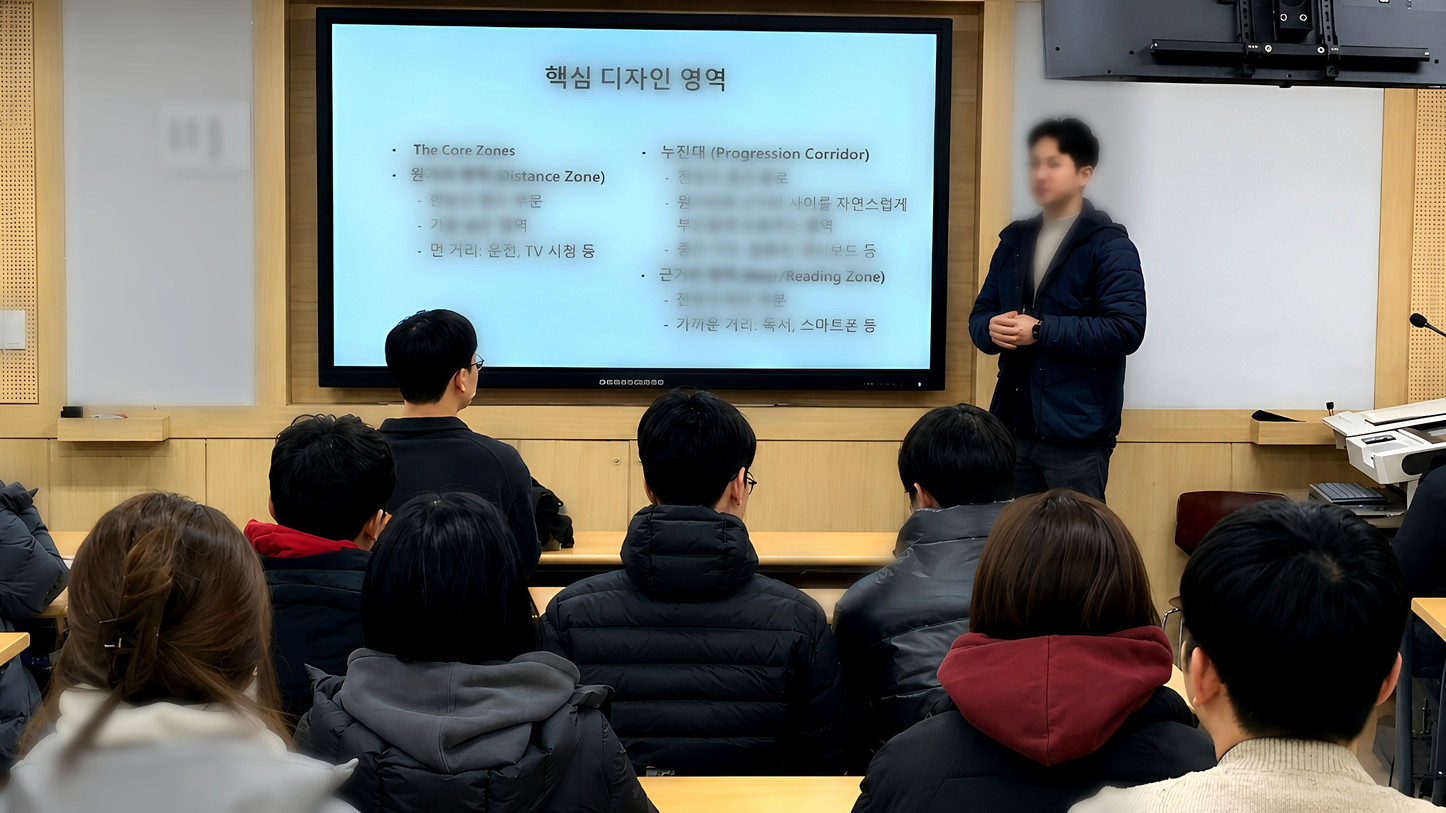
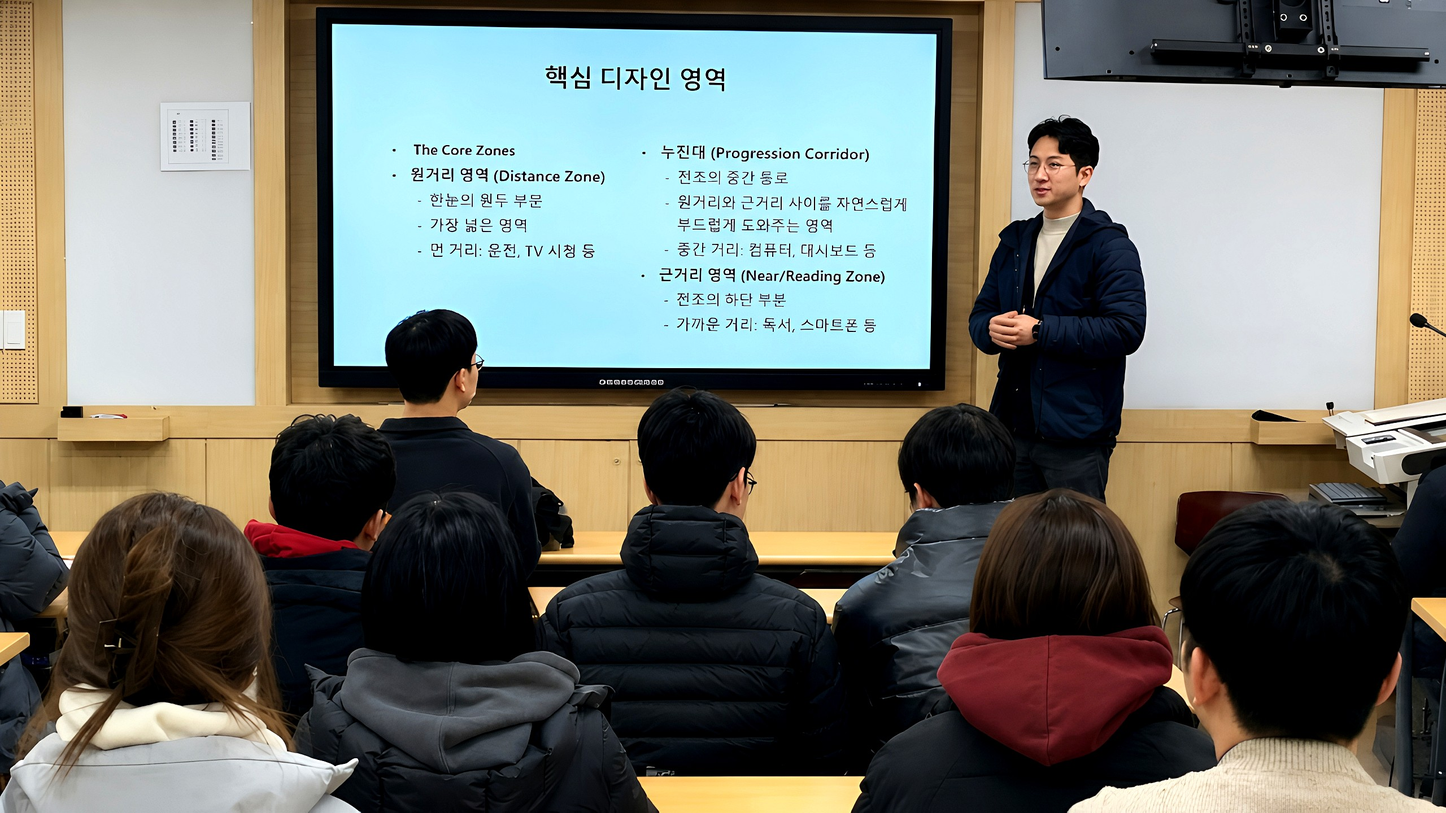
feat(hero): 원본 사진 2장 AI 4x 업스케일 + 블러 없는 재처리, 역동적 kenburns v5 재설계
- hero-bg.jpg / hero-bg2.jpg: 사용자 제공 원본 2장 AI 4x 업스케일 (4096×2304)
  → Lanczos 리사이즈(2560×1440) + 약한 언샤프(σ=0.8) + 색보정만 적용
  → 얼굴 블러/스무딩 일절 없음 (이전 v3/v4 얼굴 뭉개짐 문제 완전 해결)
- index.html Hero CSS 완전 재작성 (kenburns v5):
  · 높이 88vh (기존 82vh → 확대)
  · kenburns scale 1.14, X/Y 동시 pan으로 역동성 강화
  · hero-slide crossfade 타이밍 최적화 (24s 루프)
  · 이미지 필터 brightness(0.84), 오버레이 그라디언트 조정
  · object-position 72%/76% 22%/20% (인물 구도 최적화)
  · 이미지 캐시 무효화 ?v=4

diff --git a/index.html b/index.html
@@ -40,37 +40,36 @@
   50%      { opacity: 1;  transform: scale(1.012); }
 }
 
-/* ── 슬라이드쇼 크로스페이드 (12s on / 2s fade / 2s off × 2장 = 24s 루프) ── */
-/* 슬라이드 1: 0% 보임 → 87.5% 보임 → 91.7% 페이드 → 100% 숨김 */
+/* ── 슬라이드쇼 크로스페이드 + kenburns (24s 루프) ── */
+/* 슬라이드1: 0~50% on, 50~58% 페이드아웃 */
 @keyframes hero-slide-1 {
-  0%       { opacity: 1; }
-  79%      { opacity: 1; }
-  91.7%    { opacity: 0; }
-  100%     { opacity: 0; }
+  0%,45%  { opacity: 1; }
+  57%     { opacity: 0; }
+  96%,100%{ opacity: 0; }
 }
-/* 슬라이드 2: 0% 숨김 → 50% 등장 시작 → 54.2% 보임 → 91.7% 보임 → 100% 페이드 끝 */
+/* 슬라이드2: 0~47% off, 50~96% on */
 @keyframes hero-slide-2 {
-  0%       { opacity: 0; }
-  50%      { opacity: 0; }
-  62.5%    { opacity: 1; }
-  100%     { opacity: 1; }
+  0%,47%  { opacity: 0; }
+  52%     { opacity: 1; }
+  96%,100%{ opacity: 1; }
 }
-/* 슬라이드별 켄번스 패럴랙스 — 역동적 줌+좌우 패닝 (Y 고정으로 얼굴 보호) */
+/* kenburns-1: 넓게서 좁게 (청중 전경용 — 배경에서 강의자 쪽으로) */
 @keyframes kenburns-1 {
-  0%   { transform: scale(1.12) translateX(2%)    translateY(0); }
-  100% { transform: scale(1.0)  translateX(-1.5%) translateY(0); }
+  0%   { transform: scale(1.14) translate( 2.5%,  1.2%); }
+  100% { transform: scale(1.0)  translate(-1.5%, -0.5%); }
 }
+/* kenburns-2: 강의자 클로즈업용 — 좌하에서 우상으로 */
 @keyframes kenburns-2 {
-  0%   { transform: scale(1.0)  translateX(-2%)   translateY(0); }
-  100% { transform: scale(1.12) translateX(1.5%)  translateY(0); }
+  0%   { transform: scale(1.0)  translate(-2.5%, 0.8%); }
+  100% { transform: scale(1.14) translate( 2.0%, -0.8%); }
 }
 
 /* ── Hero 전체 컨테이너 ── */
 .hero {
   position: relative;
-  height: 82vh;
-  min-height: 600px;
-  max-height: 860px;
+  height: 88vh;
+  min-height: 620px;
+  max-height: 920px;
   display: flex;
   flex-direction: column;
   padding-top: var(--nav-h);
@@ -93,47 +92,58 @@
 .hero-slide img {
   width: 100%; height: 100%;
   object-fit: cover;
-  filter: brightness(0.88) contrast(1.06) saturate(1.04);
-  will-change: transform, opacity;
+  filter: brightness(0.84) contrast(1.08) saturate(1.06);
+  will-change: transform;
 }
 
-/* 슬라이드 1 — lecture-2 (강의자 우측, 핵심 강의 장면) */
+/* 슬라이드 1: 청중 전경 (넓은 앵글, 먼저 보임) */
 .hero-slide:nth-child(1) {
+  opacity: 1;
   animation: hero-slide-1 24s ease-in-out infinite;
 }
 .hero-slide:nth-child(1) img {
-  object-position: 68% 20%;
+  object-position: 72% 22%;
   animation: kenburns-1 24s ease-in-out infinite;
 }
 
-/* 슬라이드 2 — lecture-1 (청중+강의자 넓은 앵글) */
+/* 슬라이드 2: 강의자 제스처 클로즈업 */
 .hero-slide:nth-child(2) {
+  opacity: 0;
   animation: hero-slide-2 24s ease-in-out infinite;
 }
 .hero-slide:nth-child(2) img {
-  object-position: 60% 20%;
+  object-position: 76% 20%;
   animation: kenburns-2 24s ease-in-out infinite;
 }
 
-/* ── 오버레이: 왼쪽 강하게, 오른쪽 사진 살리기 ── */
+/* ── 멀티레이어 오버레이 ── */
 .hero-ov {
   position: absolute; inset: 0;
   z-index: 1;
   background:
-    linear-gradient(108deg,
-      rgba(6,16,32,.92) 0%,
-      rgba(6,16,32,.80) 30%,
-      rgba(6,16,32,.40) 56%,
-      rgba(6,16,32,.0) 100%
+    linear-gradient(105deg,
+      rgba(6,16,32,.94) 0%,
+      rgba(6,16,32,.82) 28%,
+      rgba(6,16,32,.38) 52%,
+      rgba(6,16,32,.0)  72%
     ),
     linear-gradient(to bottom,
-      rgba(6,16,32,.5) 0%,
-      transparent 22%
+      rgba(6,16,32,.55) 0%,
+      transparent 18%
     ),
     linear-gradient(to top,
-      rgba(6,16,32,.88) 0%,
-      transparent 32%
+      rgba(6,16,32,.90) 0%,
+      transparent 28%
     );
+  pointer-events: none;
+}
+.hero-ov::after {
+  content: '';
+  position: absolute; inset: 0;
+  background: linear-gradient(135deg,
+    rgba(11,31,58,.06) 0%,
+    rgba(184,147,100,.03) 100%
+  );
   pointer-events: none;
 }
 
@@ -178,45 +188,63 @@
 .hero-img-accent { display: none; }
 .hero-line-accent {
   position: absolute; z-index: 2;
-  top: 0; right: 38%;
+  top: 0; right: 40%;
   width: 1px; height: 100%;
   background: linear-gradient(
     to bottom,
     transparent 0%,
-    rgba(184,147,100,.42) 28%,
-    rgba(184,147,100,.72) 52%,
-    rgba(184,147,100,.25) 74%,
+    rgba(184,147,100,.35) 20%,
+    rgba(184,147,100,.7)  50%,
+    rgba(184,147,100,.28) 78%,
     transparent 100%
   );
   opacity: 0;
-  animation: fade-up-in 1.2s ease .8s forwards;
+  animation: fade-up-in 1.4s ease .6s forwards;
+}
+.hero-line-accent::after {
+  content: '';
+  position: absolute;
+  top: 25%; left: 18px;
+  width: 1px; height: 50%;
+  background: linear-gradient(
+    to bottom,
+    transparent,
+    rgba(184,147,100,.22) 40%,
+    rgba(184,147,100,.22) 60%,
+    transparent
+  );
 }
 
 /* ── 우상단 전문성 배지 ── */
 .hero-badge {
   position: absolute; z-index: 4;
-  top: calc(var(--nav-h) + 32px);
-  right: clamp(24px, 4vw, 64px);
-  display: flex; flex-direction: column; align-items: flex-end; gap: 8px;
+  top: calc(var(--nav-h) + 28px);
+  right: clamp(24px, 4vw, 60px);
+  display: flex; flex-direction: column; align-items: flex-end; gap: 7px;
   opacity: 0;
-  animation: fade-up-in .8s var(--ease-out-expo) 1.4s forwards;
+  animation: fade-up-in .9s var(--ease-out-expo) 1.2s forwards;
 }
 .hero-badge-item {
-  background: rgba(6,16,32,.72);
-  backdrop-filter: blur(10px);
-  -webkit-backdrop-filter: blur(10px);
-  border: 1px solid rgba(184,147,100,.3);
-  border-radius: 3px;
-  padding: 8px 16px;
-  color: rgba(255,255,255,.85);
-  font-size: .72rem; font-weight: 700;
-  letter-spacing: .08em;
+  background: rgba(6,16,32,.68);
+  backdrop-filter: blur(12px);
+  -webkit-backdrop-filter: blur(12px);
+  border: 1px solid rgba(184,147,100,.28);
+  border-radius: 2px;
+  padding: 7px 15px;
+  color: rgba(255,255,255,.82);
+  font-size: .7rem; font-weight: 700;
+  letter-spacing: .09em;
   white-space: nowrap;
+  transition: background .3s, border-color .3s;
+}
+.hero-badge-item:hover {
+  background: rgba(11,31,58,.88);
+  border-color: rgba(184,147,100,.55);
 }
 .hero-badge-item em {
   font-style: normal;
   color: var(--gold-l);
-  margin-right: 6px;
+  margin-right: 7px;
 }
 
 /* ──────────────────────────────────────
@@ -238,37 +266,36 @@
   box-sizing: border-box;
 }
 
-/* 텍스트 컬럼: 픽셀+vw 혼합으로 모든 브라우저 동일 렌더링 */
+/* 텍스트 컬럼 */
 .hero-text-box {
   width: 100%;
-  max-width: min(560px, 50vw);
+  max-width: min(580px, 52vw);
 }
 
 /* ── 태그 라인 ── */
 .hero-tag {
-  display: inline-flex; align-items: center; gap: 10px;
+  display: inline-flex; align-items: center; gap: 12px;
   color: var(--gold-l);
-  font-size: .72rem; font-weight: 700; letter-spacing: .2em;
+  font-size: .7rem; font-weight: 700; letter-spacing: .22em;
   text-transform: uppercase;
-  margin-bottom: 26px;
+  margin-bottom: 28px;
   opacity: 0;
-  animation: fade-up-in .7s var(--ease-out-expo) .2s forwards;
+  animation: fade-up-in .7s var(--ease-out-expo) .15s forwards;
 }
 .hero-tag::before {
   content: '';
-  display: inline-block; width: 28px; height: 1px;
-  background: var(--gold-l);
-  flex-shrink: 0;
+  display: inline-block; width: 32px; height: 1px;
+  background: var(--gold-l); flex-shrink: 0;
 }
 
 /* ── 메인 타이틀 ── */
 .hero-title {
-  font-size: clamp(2.5rem, 4.0vw, 4.2rem);
-  font-weight: 800; /* 나눔고딕 최대 800 */
+  font-size: clamp(2.6rem, 4.2vw, 4.6rem);
+  font-weight: 800;
   color: #fff;
-  line-height: 1.18;
+  line-height: 1.16;
   letter-spacing: -.03em;
-  margin-bottom: 22px;
+  margin-bottom: 24px;
   word-break: keep-all;
 }
 .hero-title em { font-style: normal; color: var(--gold-l); }
@@ -277,23 +304,23 @@
 }
 .hero-title-line span {
   display: block;
-  opacity: 0; transform: translateY(105%);
+  opacity: 0; transform: translateY(108%);
 }
-.hero-title-line:nth-child(1) span { animation: slide-up .8s var(--ease-out-expo) .35s forwards; }
-.hero-title-line:nth-child(2) span { animation: slide-up .8s var(--ease-out-expo) .52s forwards; }
-.hero-title-line:nth-child(3) span { animation: slide-up .8s var(--ease-out-expo) .69s forwards; }
+.hero-title-line:nth-child(1) span { animation: slide-up .75s var(--ease-out-expo) .28s forwards; }
+.hero-title-line:nth-child(2) span { animation: slide-up .75s var(--ease-out-expo) .44s forwards; }
+.hero-title-line:nth-child(3) span { animation: slide-up .75s var(--ease-out-expo) .60s forwards; }
 
 /* ── 설명 텍스트 ── */
 .hero-desc {
-  font-size: .95rem;
-  color: rgba(255,255,255,.65);
-  line-height: 1.92;
-  margin-bottom: 34px;
+  font-size: .93rem;
+  color: rgba(255,255,255,.6);
+  line-height: 1.95;
+  margin-bottom: 36px;
   word-break: keep-all;
   opacity: 0;
-  animation: fade-up-in .7s var(--ease-out-expo) .9s forwards;
+  animation: fade-up-in .7s var(--ease-out-expo) .82s forwards;
 }
-.hero-desc strong { color: rgba(255,255,255,.92); font-weight: 700; }
+.hero-desc strong { color: rgba(255,255,255,.9); font-weight: 700; }
 
 /* ── 크레딧 ── */
 .hero-photo-credit {
@@ -309,42 +336,44 @@
 
 /* ── 버튼 그룹 ── */
 .hero-btns {
-  display: flex; gap: 12px; flex-wrap: wrap;
+  display: flex; gap: 14px; flex-wrap: wrap; align-items: center;
   opacity: 0;
-  animation: fade-up-in .7s var(--ease-out-expo) 1.05s forwards;
+  animation: fade-up-in .7s var(--ease-out-expo) 1.0s forwards;
 }
 
 /* ── Hero 하단 수치 바 ── */
 .hero-stats {
   position: relative; z-index: 3;
   flex-shrink: 0;
-  border-top: 1px solid rgba(184,147,100,.2);
-  backdrop-filter: blur(18px);
-  -webkit-backdrop-filter: blur(18px);
-  background: rgba(6,16,32,.76);
+  border-top: 1px solid rgba(184,147,100,.22);
+  backdrop-filter: blur(20px);
+  -webkit-backdrop-filter: blur(20px);
+  background: rgba(5,14,28,.8);
 }
 .hero-stats-inner {
   max-width: var(--max-w); margin: 0 auto; padding: 0 var(--px);
   display: flex;
 }
 .hero-stat {
-  flex: 1; padding: 20px 0;
-  border-right: 1px solid rgba(255,255,255,.08);
+  flex: 1; padding: 22px 0;
+  border-right: 1px solid rgba(255,255,255,.07);
   text-align: center;
   opacity: 0;
-  animation: fade-up-in .65s var(--ease-out-expo) 1.25s forwards;
+  animation: fade-up-in .65s var(--ease-out-expo) 1.15s forwards;
+  transition: background .3s;
 }
 .hero-stat:last-child { border-right: none; }
+.hero-stat:hover { background: rgba(184,147,100,.06); }
 .hero-stat-num {
-  font-size: 1.68rem; font-weight: 800;
+  font-size: 1.72rem; font-weight: 800;
   color: #fff;
   letter-spacing: -.03em; line-height: 1;
-  margin-bottom: 5px;
+  margin-bottom: 6px;
 }
-.hero-stat-num sup { font-size: .82rem; color: var(--gold-l); vertical-align: super; }
+.hero-stat-num sup { font-size: .8rem; color: var(--gold-l); vertical-align: super; }
 .hero-stat-lbl {
-  font-size: .67rem; color: rgba(255,255,255,.42);
-  letter-spacing: .05em; font-weight: 600;
+  font-size: .66rem; color: rgba(255,255,255,.4);
+  letter-spacing: .06em; font-weight: 600;
   word-break: keep-all;
 }
 
@@ -956,30 +985,29 @@
 ══════════════════════════════════════ -->
 <section class="hero" id="hero">
 
-  <!-- 배경: 두 장 강의 사진 크로스페이드 슬라이드쇼 -->
+  <!-- 배경: 두 장 강의 사진 크로스페이드 -->
   <div class="hero-bg">
-    <!-- 슬라이드 1: lecture-2 (강의자 우측 클로즈업) -->
+    <!-- 슬라이드 1: 청중 전경 (넓은 앵글) — 먼저 보임 -->
     <div class="hero-slide">
-      <img src="img/hero-bg.jpg?v=3"
-           alt="안경사 조성인 — 대전보건대학교 특강 강의 장면"
+      <img src="img/hero-bg.jpg?v=4"
+           alt="안경사 조성인 — 대전보건대학교 특강 강의 전경"
            loading="eager" fetchpriority="high"/>
     </div>
-    <!-- 슬라이드 2: lecture-1 (강의실 전경 + 청중) -->
+    <!-- 슬라이드 2: 강의자 제스처 클로즈업 -->
     <div class="hero-slide">
-      <img src="img/hero-bg2.jpg?v=3"
-           alt="안경사 조성인 — 주변부 왜곡 강의 전경"
+      <img src="img/hero-bg2.jpg?v=4"
+           alt="안경사 조성인 — 주변부 왜곡 강의 장면"
            loading="eager"/>
     </div>
-    <!-- 공용 오버레이 -->
     <div class="hero-ov"></div>
   </div>
 
-  <!-- 사진-텍스트 경계 골드 라인 -->
+  <!-- 텍스트-사진 경계 골드 라인 -->
   <div class="hero-line-accent"></div>
 
   <!-- 우상단 전문성 배지 -->
   <div class="hero-badge">
-    <div class="hero-badge-item"><em>✦</em>보건대학교 특강 교수</div>
+    <div class="hero-badge-item"><em>✦</em>대전보건대학교 특강 교수</div>
     <div class="hero-badge-item"><em>✦</em>옵토메트리스트 3기</div>
     <div class="hero-badge-item"><em>✦</em>피팅 마스터 수료</div>
   </div>
